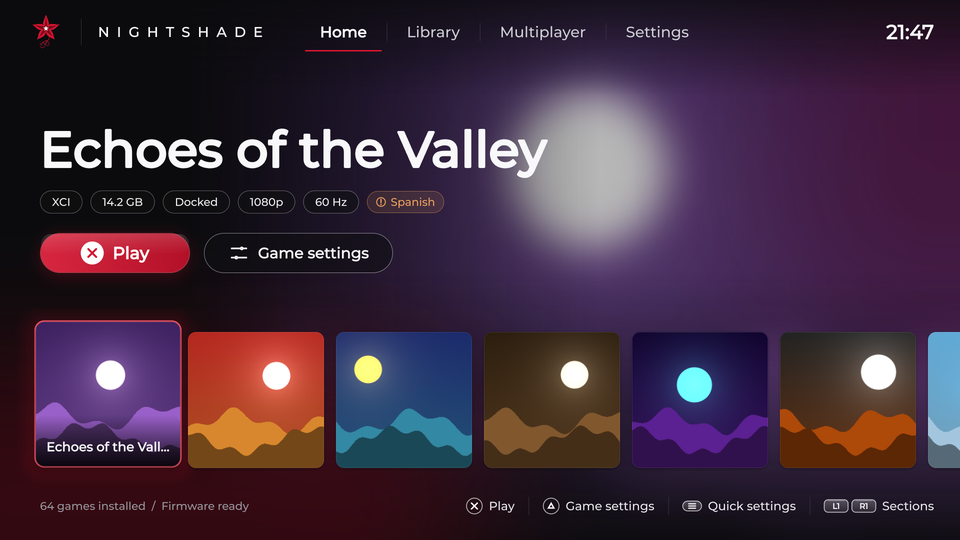
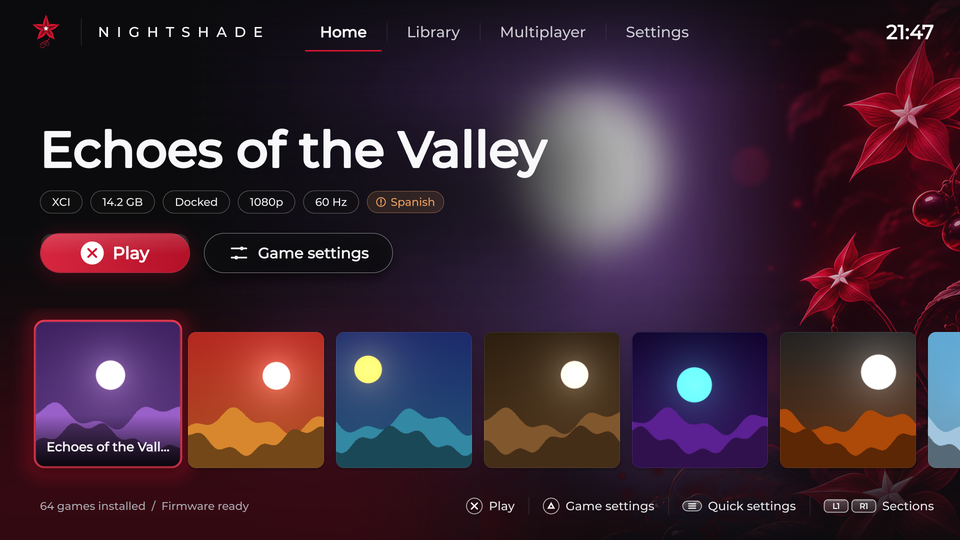
docs: Nightshade's plate and focus light; the screens drawn again, beside the promo
THEMES.md describes the plate, its veil and frame, what it costs, and the theme's glow. docs/images/redesign has the new after- renders (home with art and without, Library, Settings, a game's settings), the promo beside the home screen, and the mockups beside the preview again; the README's three are the new ones.

diff --git a/docs/THEMES.md b/docs/THEMES.md
@@ -16,8 +16,17 @@ Favorites; and Settings as a column of categories beside a glass panel of the fo
 its dialog opens. About is Settings' last row. The hints are at the bottom right. Its colours are
 black `#0b0b0d` and crimson `#d4142f` with white on the accent, its type is larger than the other
 themes' (it is read from a couch), and its warnings are amber, so they never read as the accent.
-Where there is no game art it shows a near-black backdrop with a low red glow and a few stars
-(`render-art.py nightly-backdrop`). Its accent presets are Red, Crimson, Rose, White, Violet and
+Its backdrop is a plate of crimson nightshade flowers and plum berries at the left and right
+edges, a dark empty middle and a crimson haze rising from the bottom (`render-art.py
+nightly-backdrop`, from `tools/launcher/art/nightshade-plate.jpg`). It is behind the Library,
+Multiplayer, Settings and a game's settings, and behind the home screen when there is no game art;
+a veil keeps the middle and the bands of the top bar and the hints dark, so the flowers frame the
+screen without lying under words (every line of text keeps at least 4.5 to 1). The plate's alpha is
+1 at the edges and in its light and 0 in its dark middle, so the same texture is the frame laid
+over a game's art at the home screen's right edge: no second picture, no blur at run time. It is
+2048 by 1152 like every backdrop (9 MiB of graphics memory, as the backdrop it replaced). A focused
+card, panel or button has a crimson ring of 4 pixels and a strong soft light (`glow` 1.7), and
+cards and panels cast soft shadows. Its accent presets are Red, Crimson, Rose, White, Violet and
 Ice.
 
 The game's art is its cover, made small and blurred once when the selection rests on a game
@@ -51,7 +60,7 @@ Everything below is one structure, `pe::ui::Theme` in
 | Colour: accent | `accent`, `accent_deep`, `accent_pale`, `on_accent` (text on an accent fill), `highlight` (light in the artwork). Each theme carries an array of accent presets (`AccentPreset`) the player picks from in **Settings > Colour**; the choice is saved as `"launcher": { "accent": "ice" }` |
 | Colour: text | `text`, `title`, `value`, `body`, `copy`, `meta`, `label`, `muted`, `faint`, `warning`, `rule` |
 | Type | the sizes of the hero title, a screen's title, rows, captions; how much heavier titles are drawn; the spacing of the small capital headings |
-| Shape | corner radii for rows, cards and panels; whether chips are pills; hairline and focus ring widths; how far the focus ring's light reaches; whether panels are glass |
+| Shape | corner radii for rows, cards and panels; whether chips are pills; hairline and focus ring widths; how far the focus ring's light reaches and how strong it is (`glow`); whether panels are glass |
 | Motion | the springs of the focus, the highlight and scrolling; how long a screen change and a game's start take; the delay between the parts of a screen as it arrives; the focus glow's pulse |
 | Artwork | the backdrop, its blurred copy (behind glass panels) and the app's mark, as files in `ui/art`; where the artwork's light is |
 | Layout variants | `list_settings` (settings as a vertical list instead of tiles), `game_backdrop` (the selected game's cover art fills the background), `minimal_home` (clean home layout: a detail card on the left with the Library grid on the right, no floating cover or controllers, no recently-played shelf), `top_nav` (horizontal section tabs — Home, Multiplayer, Settings, About — at the top instead of the sidebar rail; the Library grid lives on the home screen, and the other sections draw as right-side panels), `scrim_opacity` (>0: a flat scrim at this alpha over the backdrop; 0: the directional gradient scrim), `game_page_offset` (pixels to push the game settings columns below their base position), `showcase` (Nightshade's own layout, described above: it takes the place of `top_nav`, `minimal_home` and `list_settings` on the screens it draws) |
